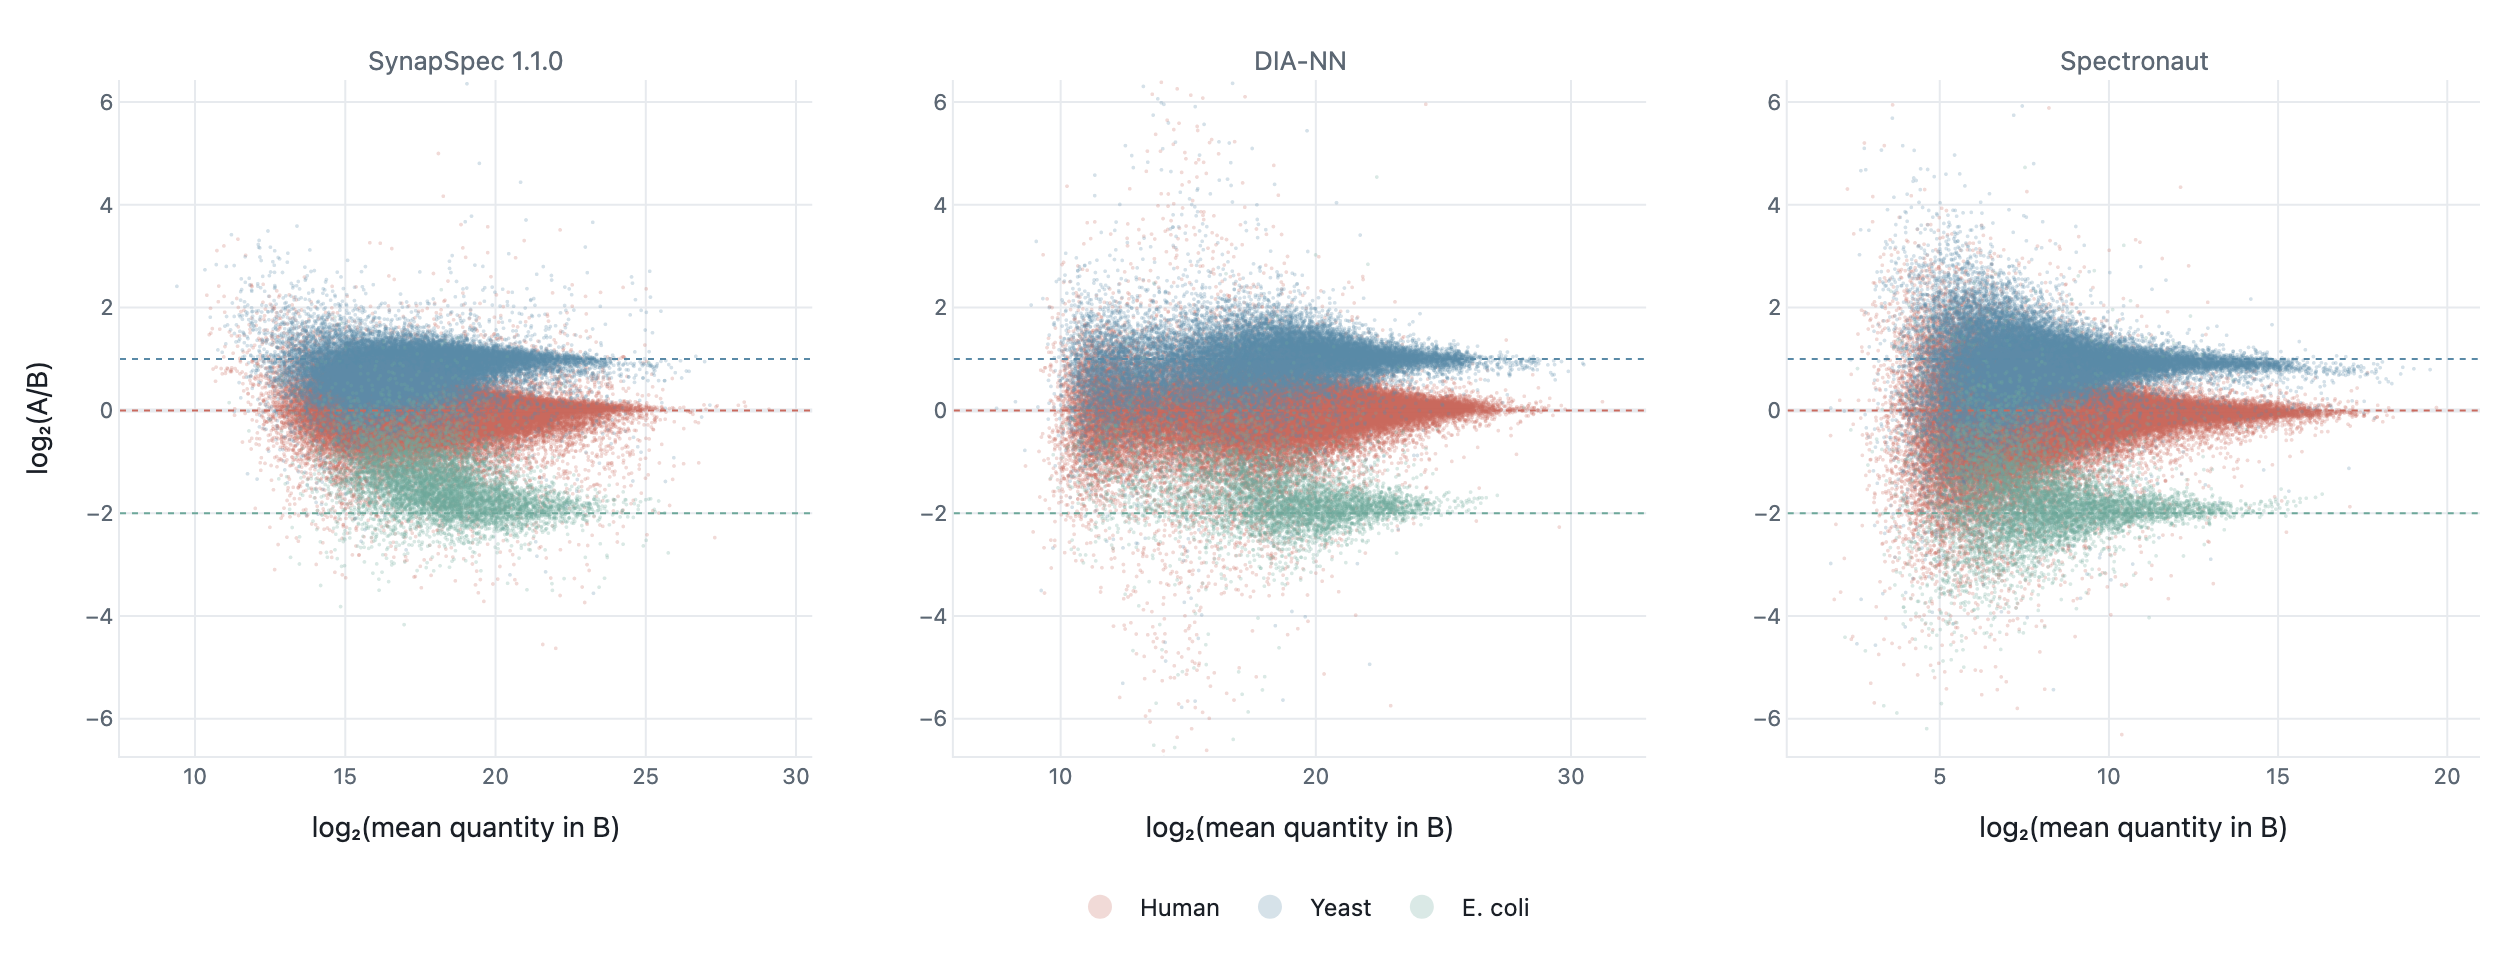
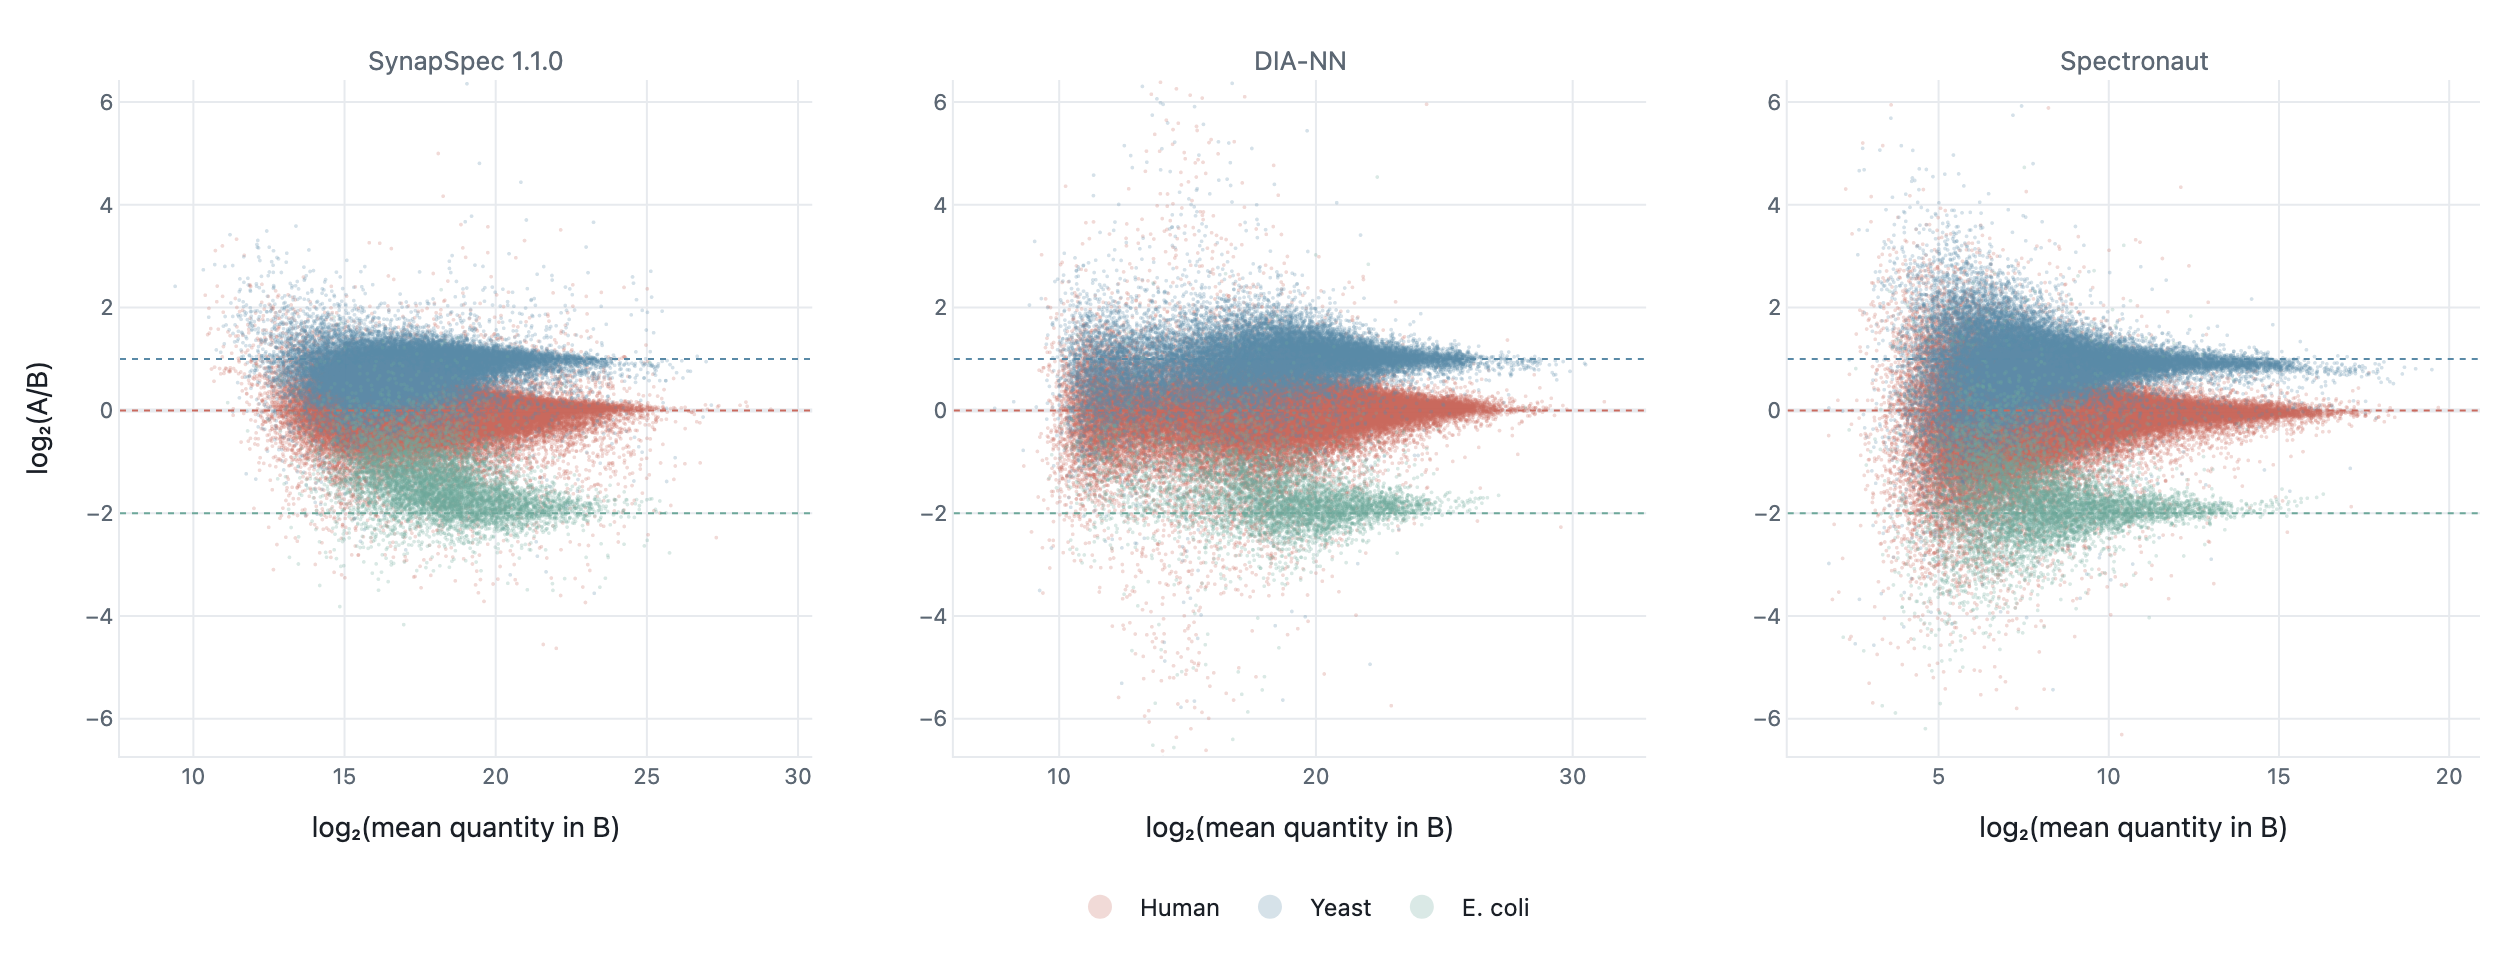
fix(benchmarks): match v1.0.0 scatter ranges exactly

diff --git a/scripts/render_scatter_images.py b/scripts/render_scatter_images.py
@@ -135,7 +135,7 @@ def primary_y_range(cloud: dict, pad_fraction: float = 0.04) -> list[float]:
     return padded_range(cloud, "y", pad_fraction)
 
 
-def panel_x_range(cloud: dict, pad_fraction: float = 0.071) -> list[float]:
+def panel_x_range(cloud: dict, pad_fraction: float = 0.067520483957424) -> list[float]:
     return padded_range(cloud, "x", pad_fraction)
 
 
